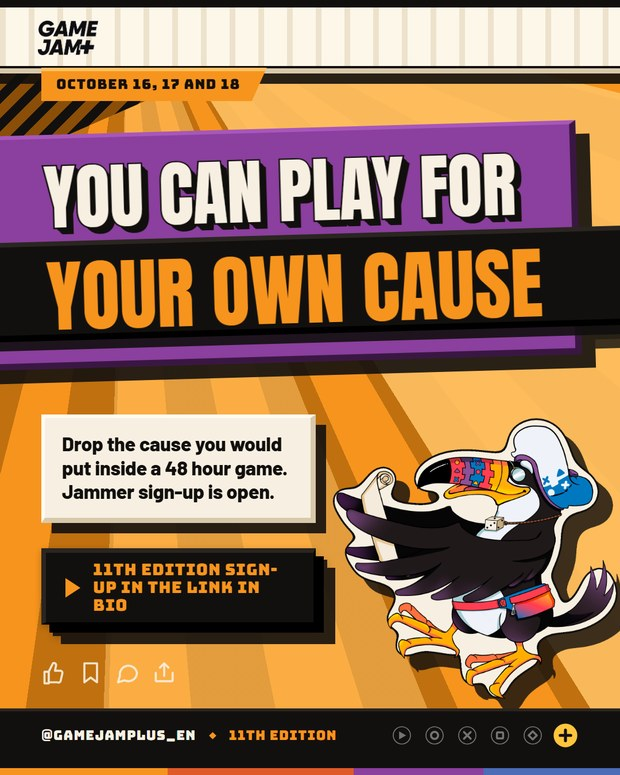
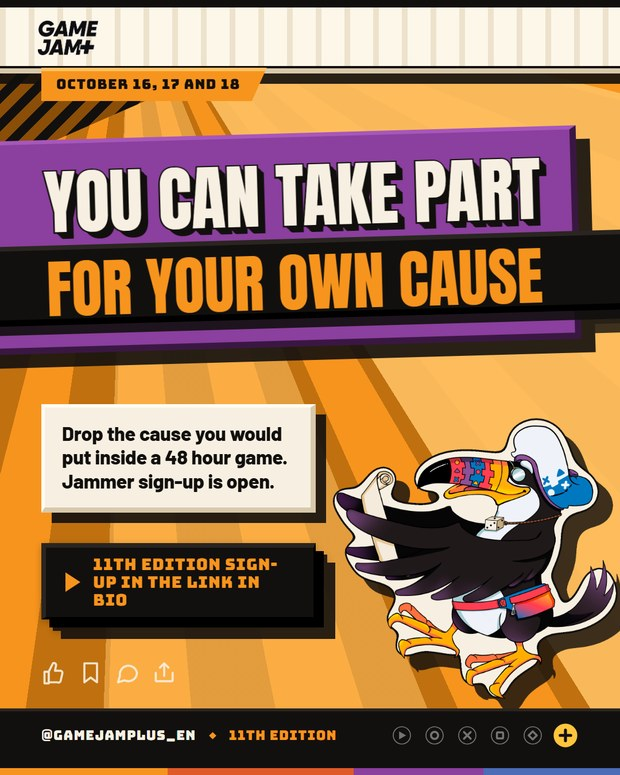
E19 slide 6: "jogar" vira "participar"
Pedido do dono. E a troca corrige um sentido errado, nao so a palavra:
numa jam ninguem joga, as pessoas fazem jogo, entao "da pra jogar pela
sua causa" lia como partida em vez de participacao.

  - PT "Da pra participar pela sua causa"
  - EN "You can take part for your own cause"
  - ES "Se puede participar por tu causa"
  - cache-buster ?v=1 -> ?v=2 na galeria e no calendario
  - a legenda nao cita a palavra, entao nao muda

Changed region(s): [[0.0, 0.1548, 1.0, 0.8361], [0.521, 0.7123, 0.5516, 0.7432]]

diff --git a/index.html b/index.html
@@ -1169,15 +1169,15 @@ dialog img{width:min(92vw,620px);max-height:92dvh;object-fit:contain;border-radi
 <article class="c" data-cat="01-conteudos-gj" data-lang="PT" data-busca="e19 - ods vale trofeu gj+" id="c272">
   <header><div><span class="tagcat">GJ+</span><span class="taglang PT">PT</span><h2>E19 - ODS vale trofeu</h2></div>
   <div class="nav"><button aria-label="Anterior" data-d="-1">&#8592;</button><button aria-label="Pr&#243;ximo" data-d="1">&#8594;</button><span class="cont">6</span></div></header>
-  <div class="strip"><figure><img src="img/01-conteudos-gj-pt-e19-ods-vale-trofeu/slide_01.jpg?v=1" alt="E19 - ODS vale trofeu 1" width="620" height="775" loading="lazy" decoding="async"><figcaption>01</figcaption></figure><figure><img src="img/01-conteudos-gj-pt-e19-ods-vale-trofeu/slide_02.jpg?v=1" alt="E19 - ODS vale trofeu 2" width="620" height="775" loading="lazy" decoding="async"><figcaption>02</figcaption></figure><figure><img src="img/01-conteudos-gj-pt-e19-ods-vale-trofeu/slide_03.jpg?v=1" alt="E19 - ODS vale trofeu 3" width="620" height="775" loading="lazy" decoding="async"><figcaption>03</figcaption></figure><figure><img src="img/01-conteudos-gj-pt-e19-ods-vale-trofeu/slide_04.jpg?v=1" alt="E19 - ODS vale trofeu 4" width="620" height="775" loading="lazy" decoding="async"><figcaption>04</figcaption></figure><figure><img src="img/01-conteudos-gj-pt-e19-ods-vale-trofeu/slide_05.jpg?v=1" alt="E19 - ODS vale trofeu 5" width="620" height="775" loading="lazy" decoding="async"><figcaption>05</figcaption></figure><figure><img src="img/01-conteudos-gj-pt-e19-ods-vale-trofeu/slide_06.jpg?v=1" alt="E19 - ODS vale trofeu 6" width="620" height="775" loading="lazy" decoding="async"><figcaption>06</figcaption></figure></div></article>
+  <div class="strip"><figure><img src="img/01-conteudos-gj-pt-e19-ods-vale-trofeu/slide_01.jpg?v=2" alt="E19 - ODS vale trofeu 1" width="620" height="775" loading="lazy" decoding="async"><figcaption>01</figcaption></figure><figure><img src="img/01-conteudos-gj-pt-e19-ods-vale-trofeu/slide_02.jpg?v=2" alt="E19 - ODS vale trofeu 2" width="620" height="775" loading="lazy" decoding="async"><figcaption>02</figcaption></figure><figure><img src="img/01-conteudos-gj-pt-e19-ods-vale-trofeu/slide_03.jpg?v=2" alt="E19 - ODS vale trofeu 3" width="620" height="775" loading="lazy" decoding="async"><figcaption>03</figcaption></figure><figure><img src="img/01-conteudos-gj-pt-e19-ods-vale-trofeu/slide_04.jpg?v=2" alt="E19 - ODS vale trofeu 4" width="620" height="775" loading="lazy" decoding="async"><figcaption>04</figcaption></figure><figure><img src="img/01-conteudos-gj-pt-e19-ods-vale-trofeu/slide_05.jpg?v=2" alt="E19 - ODS vale trofeu 5" width="620" height="775" loading="lazy" decoding="async"><figcaption>05</figcaption></figure><figure><img src="img/01-conteudos-gj-pt-e19-ods-vale-trofeu/slide_06.jpg?v=2" alt="E19 - ODS vale trofeu 6" width="620" height="775" loading="lazy" decoding="async"><figcaption>06</figcaption></figure></div></article>
 <article class="c" data-cat="01-conteudos-gj" data-lang="EN" data-busca="e19 - a cause wins a trophy gj+" id="c273">
   <header><div><span class="tagcat">GJ+</span><span class="taglang EN">EN</span><h2>E19 - A cause wins a trophy</h2></div>
   <div class="nav"><button aria-label="Anterior" data-d="-1">&#8592;</button><button aria-label="Pr&#243;ximo" data-d="1">&#8594;</button><span class="cont">6</span></div></header>
-  <div class="strip"><figure><img src="img/01-conteudos-gj-en-e19-a-cause-wins-a-trophy/slide_01.jpg?v=1" alt="E19 - A cause wins a trophy 1" width="620" height="775" loading="lazy" decoding="async"><figcaption>01</figcaption></figure><figure><img src="img/01-conteudos-gj-en-e19-a-cause-wins-a-trophy/slide_02.jpg?v=1" alt="E19 - A cause wins a trophy 2" width="620" height="775" loading="lazy" decoding="async"><figcaption>02</figcaption></figure><figure><img src="img/01-conteudos-gj-en-e19-a-cause-wins-a-trophy/slide_03.jpg?v=1" alt="E19 - A cause wins a trophy 3" width="620" height="775" loading="lazy" decoding="async"><figcaption>03</figcaption></figure><figure><img src="img/01-conteudos-gj-en-e19-a-cause-wins-a-trophy/slide_04.jpg?v=1" alt="E19 - A cause wins a trophy 4" width="620" height="775" loading="lazy" decoding="async"><figcaption>04</figcaption></figure><figure><img src="img/01-conteudos-gj-en-e19-a-cause-wins-a-trophy/slide_05.jpg?v=1" alt="E19 - A cause wins a trophy 5" width="620" height="775" loading="lazy" decoding="async"><figcaption>05</figcaption></figure><figure><img src="img/01-conteudos-gj-en-e19-a-cause-wins-a-trophy/slide_06.jpg?v=1" alt="E19 - A cause wins a trophy 6" width="620" height="775" loading="lazy" decoding="async"><figcaption>06</figcaption></figure></div></article>
+  <div class="strip"><figure><img src="img/01-conteudos-gj-en-e19-a-cause-wins-a-trophy/slide_01.jpg?v=2" alt="E19 - A cause wins a trophy 1" width="620" height="775" loading="lazy" decoding="async"><figcaption>01</figcaption></figure><figure><img src="img/01-conteudos-gj-en-e19-a-cause-wins-a-trophy/slide_02.jpg?v=2" alt="E19 - A cause wins a trophy 2" width="620" height="775" loading="lazy" decoding="async"><figcaption>02</figcaption></figure><figure><img src="img/01-conteudos-gj-en-e19-a-cause-wins-a-trophy/slide_03.jpg?v=2" alt="E19 - A cause wins a trophy 3" width="620" height="775" loading="lazy" decoding="async"><figcaption>03</figcaption></figure><figure><img src="img/01-conteudos-gj-en-e19-a-cause-wins-a-trophy/slide_04.jpg?v=2" alt="E19 - A cause wins a trophy 4" width="620" height="775" loading="lazy" decoding="async"><figcaption>04</figcaption></figure><figure><img src="img/01-conteudos-gj-en-e19-a-cause-wins-a-trophy/slide_05.jpg?v=2" alt="E19 - A cause wins a trophy 5" width="620" height="775" loading="lazy" decoding="async"><figcaption>05</figcaption></figure><figure><img src="img/01-conteudos-gj-en-e19-a-cause-wins-a-trophy/slide_06.jpg?v=2" alt="E19 - A cause wins a trophy 6" width="620" height="775" loading="lazy" decoding="async"><figcaption>06</figcaption></figure></div></article>
 <article class="c" data-cat="01-conteudos-gj" data-lang="ES" data-busca="e19 - la causa gana trofeo gj+" id="c274">
   <header><div><span class="tagcat">GJ+</span><span class="taglang ES">ES</span><h2>E19 - La causa gana trofeo</h2></div>
   <div class="nav"><button aria-label="Anterior" data-d="-1">&#8592;</button><button aria-label="Pr&#243;ximo" data-d="1">&#8594;</button><span class="cont">6</span></div></header>
-  <div class="strip"><figure><img src="img/01-conteudos-gj-es-e19-la-causa-gana-trofeo/slide_01.jpg?v=1" alt="E19 - La causa gana trofeo 1" width="620" height="775" loading="lazy" decoding="async"><figcaption>01</figcaption></figure><figure><img src="img/01-conteudos-gj-es-e19-la-causa-gana-trofeo/slide_02.jpg?v=1" alt="E19 - La causa gana trofeo 2" width="620" height="775" loading="lazy" decoding="async"><figcaption>02</figcaption></figure><figure><img src="img/01-conteudos-gj-es-e19-la-causa-gana-trofeo/slide_03.jpg?v=1" alt="E19 - La causa gana trofeo 3" width="620" height="775" loading="lazy" decoding="async"><figcaption>03</figcaption></figure><figure><img src="img/01-conteudos-gj-es-e19-la-causa-gana-trofeo/slide_04.jpg?v=1" alt="E19 - La causa gana trofeo 4" width="620" height="775" loading="lazy" decoding="async"><figcaption>04</figcaption></figure><figure><img src="img/01-conteudos-gj-es-e19-la-causa-gana-trofeo/slide_05.jpg?v=1" alt="E19 - La causa gana trofeo 5" width="620" height="775" loading="lazy" decoding="async"><figcaption>05</figcaption></figure><figure><img src="img/01-conteudos-gj-es-e19-la-causa-gana-trofeo/slide_06.jpg?v=1" alt="E19 - La causa gana trofeo 6" width="620" height="775" loading="lazy" decoding="async"><figcaption>06</figcaption></figure></div></article>
+  <div class="strip"><figure><img src="img/01-conteudos-gj-es-e19-la-causa-gana-trofeo/slide_01.jpg?v=2" alt="E19 - La causa gana trofeo 1" width="620" height="775" loading="lazy" decoding="async"><figcaption>01</figcaption></figure><figure><img src="img/01-conteudos-gj-es-e19-la-causa-gana-trofeo/slide_02.jpg?v=2" alt="E19 - La causa gana trofeo 2" width="620" height="775" loading="lazy" decoding="async"><figcaption>02</figcaption></figure><figure><img src="img/01-conteudos-gj-es-e19-la-causa-gana-trofeo/slide_03.jpg?v=2" alt="E19 - La causa gana trofeo 3" width="620" height="775" loading="lazy" decoding="async"><figcaption>03</figcaption></figure><figure><img src="img/01-conteudos-gj-es-e19-la-causa-gana-trofeo/slide_04.jpg?v=2" alt="E19 - La causa gana trofeo 4" width="620" height="775" loading="lazy" decoding="async"><figcaption>04</figcaption></figure><figure><img src="img/01-conteudos-gj-es-e19-la-causa-gana-trofeo/slide_05.jpg?v=2" alt="E19 - La causa gana trofeo 5" width="620" height="775" loading="lazy" decoding="async"><figcaption>05</figcaption></figure><figure><img src="img/01-conteudos-gj-es-e19-la-causa-gana-trofeo/slide_06.jpg?v=2" alt="E19 - La causa gana trofeo 6" width="620" height="775" loading="lazy" decoding="async"><figcaption>06</figcaption></figure></div></article>
 <article class="c" data-cat="01-conteudos-gj" data-lang="PT" data-busca="e20 - quem julga o seu jogo gj+" id="c275">
   <header><div><span class="tagcat">GJ+</span><span class="taglang PT">PT</span><h2>E20 - Quem julga o seu jogo</h2></div>
   <div class="nav"><button aria-label="Anterior" data-d="-1">&#8592;</button><button aria-label="Pr&#243;ximo" data-d="1">&#8594;</button><span class="cont">6</span></div></header>
